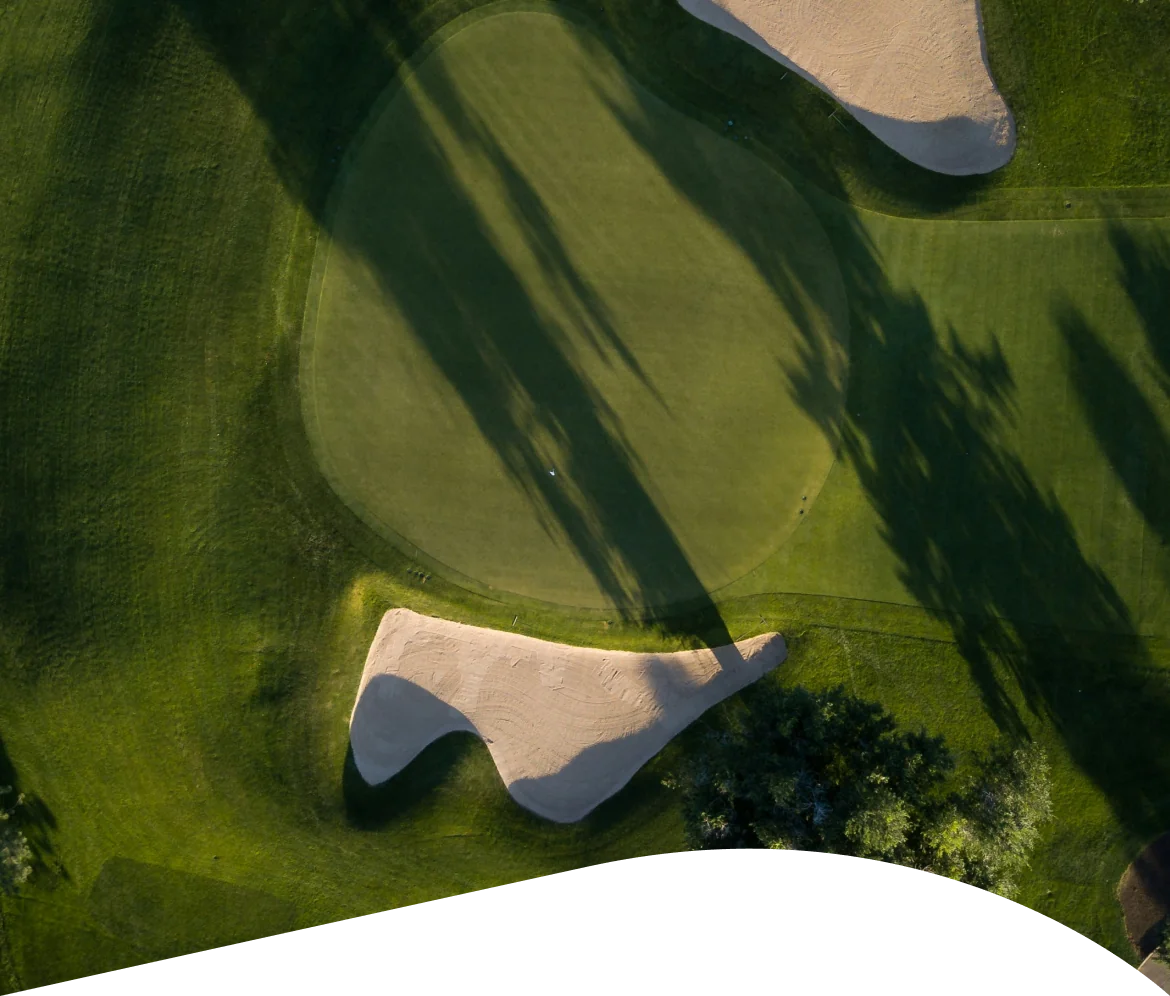
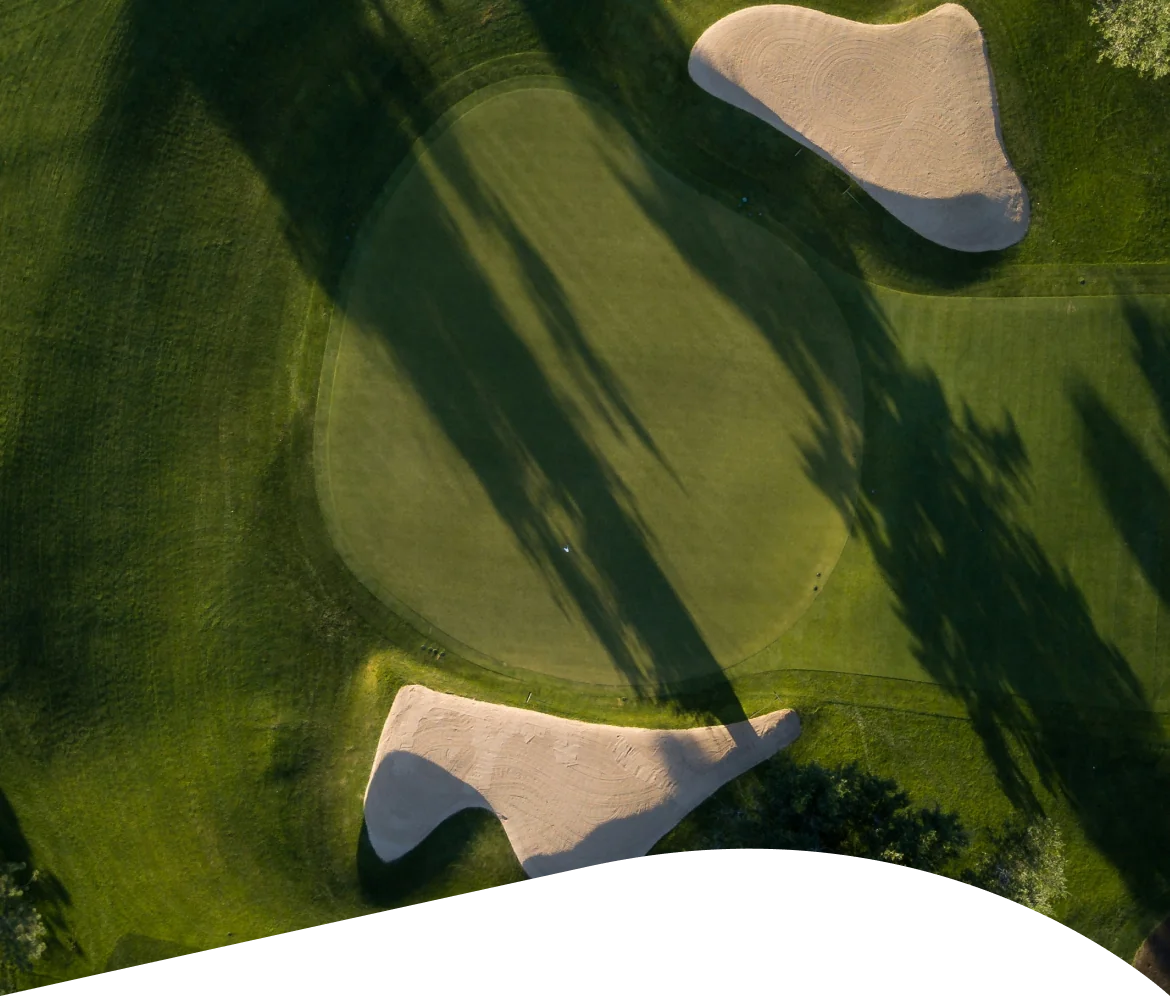
image update

diff --git a/src/app/router.js b/src/app/router.js
@@ -1551,7 +1551,7 @@ initServices({
   const HERO_IMAGES = [
     'assets/images/Green top.webp',
     'assets/images/Bunker.webp',
-    'assets/images/Green top222.webp',
+    'assets/images/Green top2.webp',
     'assets/images/Autumn.webp',
     'assets/images/FW1.webp',
     'assets/images/Green1.webp',
